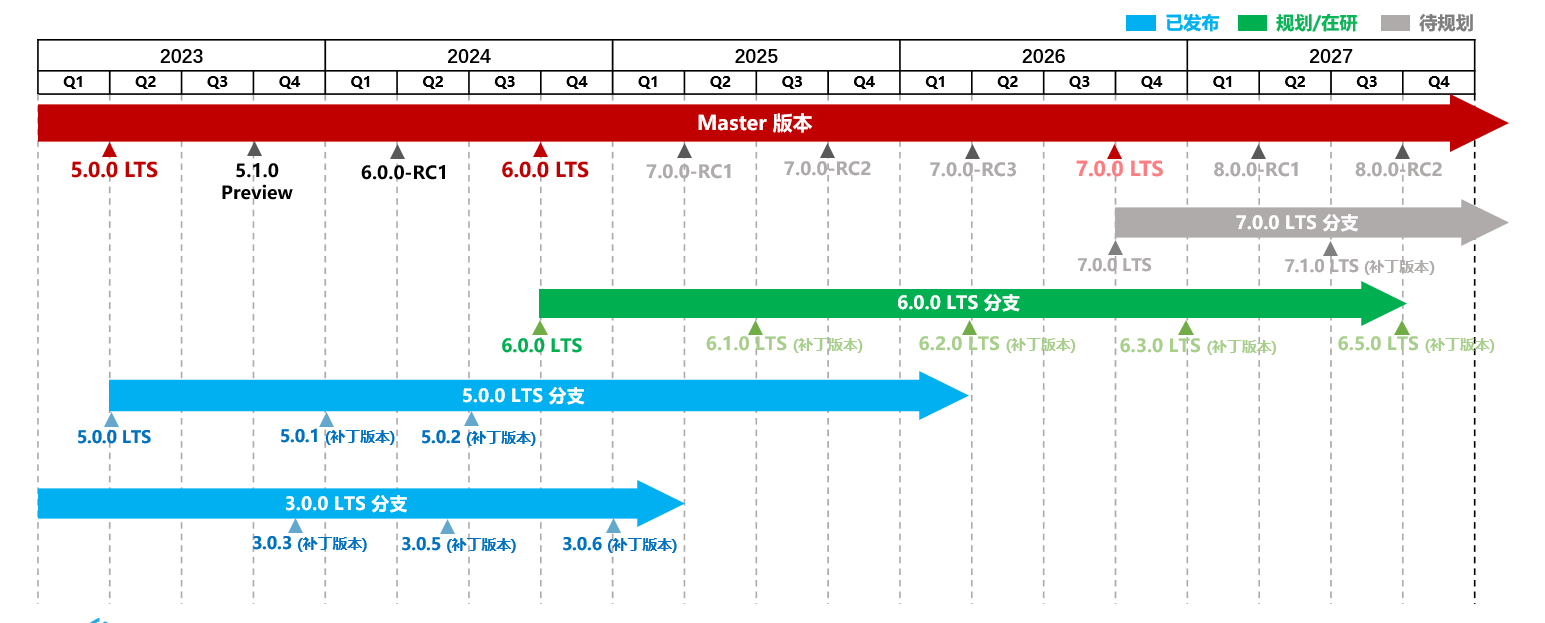
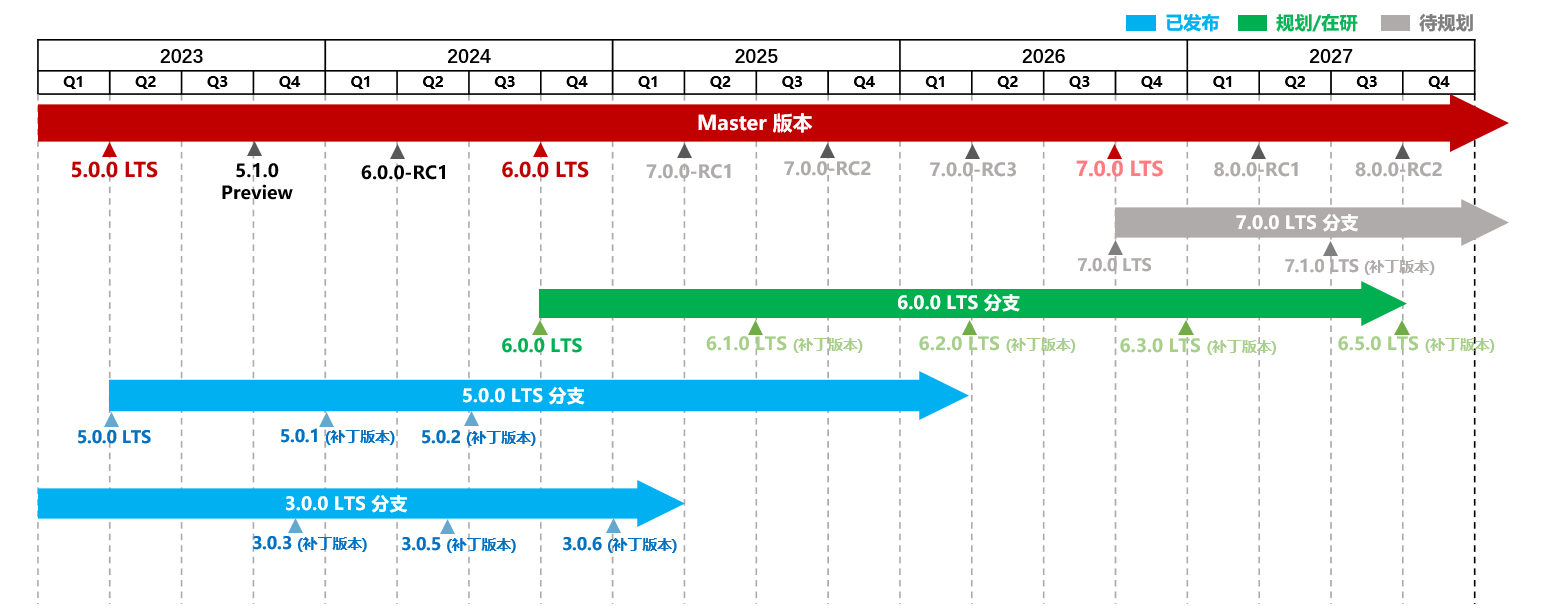
fix：下载软件包文案修改

diff --git a/app/.vitepress/src/i18n/download/index.ts b/app/.vitepress/src/i18n/download/index.ts
@@ -20,9 +20,9 @@ export default {
     COPY_SUCCESS: `复制成功`,
     DOWNTIPS: `Data Studio引用的Apache Log4j工具存在安全风险，社区已经修复了该漏洞。请下载和使用Data Studio 2.1.2版本工具。`,
     DESCRIPTION: [
-      `openGauss社区版本分为长期支持版本和创新版本：`,
-      `· 长期支持版本 (LTS) ——规模上线使用，openGauss 6.0.0 LTS及后续LTS版本发布间隔周期为2年，提供3年社区支持。`,
-      `· 创新版本 (RCx) ——作为LTS版本发布前的阶段性特性体验版本，仅供联创测试使用，提供6个月社区支持。`,
+      `openGauss社区版本分为长期支持版本和创新版本： `,
+      `· 长期支持版本 (LTS) ：规模上线使用，openGauss 6.0.0 LTS及后续LTS版本发布间隔周期为2年，社区去提供3年支持，社区OGSP伙伴提供3年以后维护支持服务。`,
+      `· 创新版本 (RCx) ：作为LTS版本发布前的阶段性特性体验版本，仅供联创测试使用，提供6个月社区支持。`,
     ],
     MORE_DETAIL: `更多详细信息请`,
     VIEW_SPECIFICATION: `点此查看openGauss社区版本生命周期管理规范`,

diff --git a/app/zh/news/2024-03-21/index.md b/app/zh/news/2024-03-21/index.md
@@ -8,10 +8,13 @@ author: 'openGauss'
 summary: 'openGauss 社区版本发布节奏与命名调整公告'
 ---
 
-基于客户及伙伴建议，openGauss 社区理事会决策同意，openGauss LTS 版本发布节奏，由每年发布一个 LTS 版本，调整为**每两年发布一个 LTS 版本**。
+基于社区用户及伙伴建议，openGauss 社区理事会决策同意，openGauss LTS 版本发布节奏，由每年发布一个 LTS 版本，调整为**每两年发布一个 LTS 版本**。
 
 openGauss 6.0.0 LTS 版本发布时间在 **2024 年 9 月 30 日**， openGauss 7.0.0 LTS 版本发布时间在 **2026 年 9 月 30 日**。
 
 创新版本命名：由原方案 **XX.1.0 Preview** (例：5.1.0 preview），调整为现方案 **XX.0.0-RCx** (例：6.0.0-RC1、7.0.0-RC1、7.0.0-RC2，7.0.0-RC3 ）
 
-<div style="text-align:center;margin:24px 0;"><img src="/zh/news/2024-03-21/img1.png" style="width: 60%"></div>
+<div style="text-align:center;margin:24px 0;">
+<img src="/zh/news/2024-03-21/img1.png" style="width: 60%">
+<p style="font-weight:600">openGauss社区版本里程碑规划</p>
+</div>
